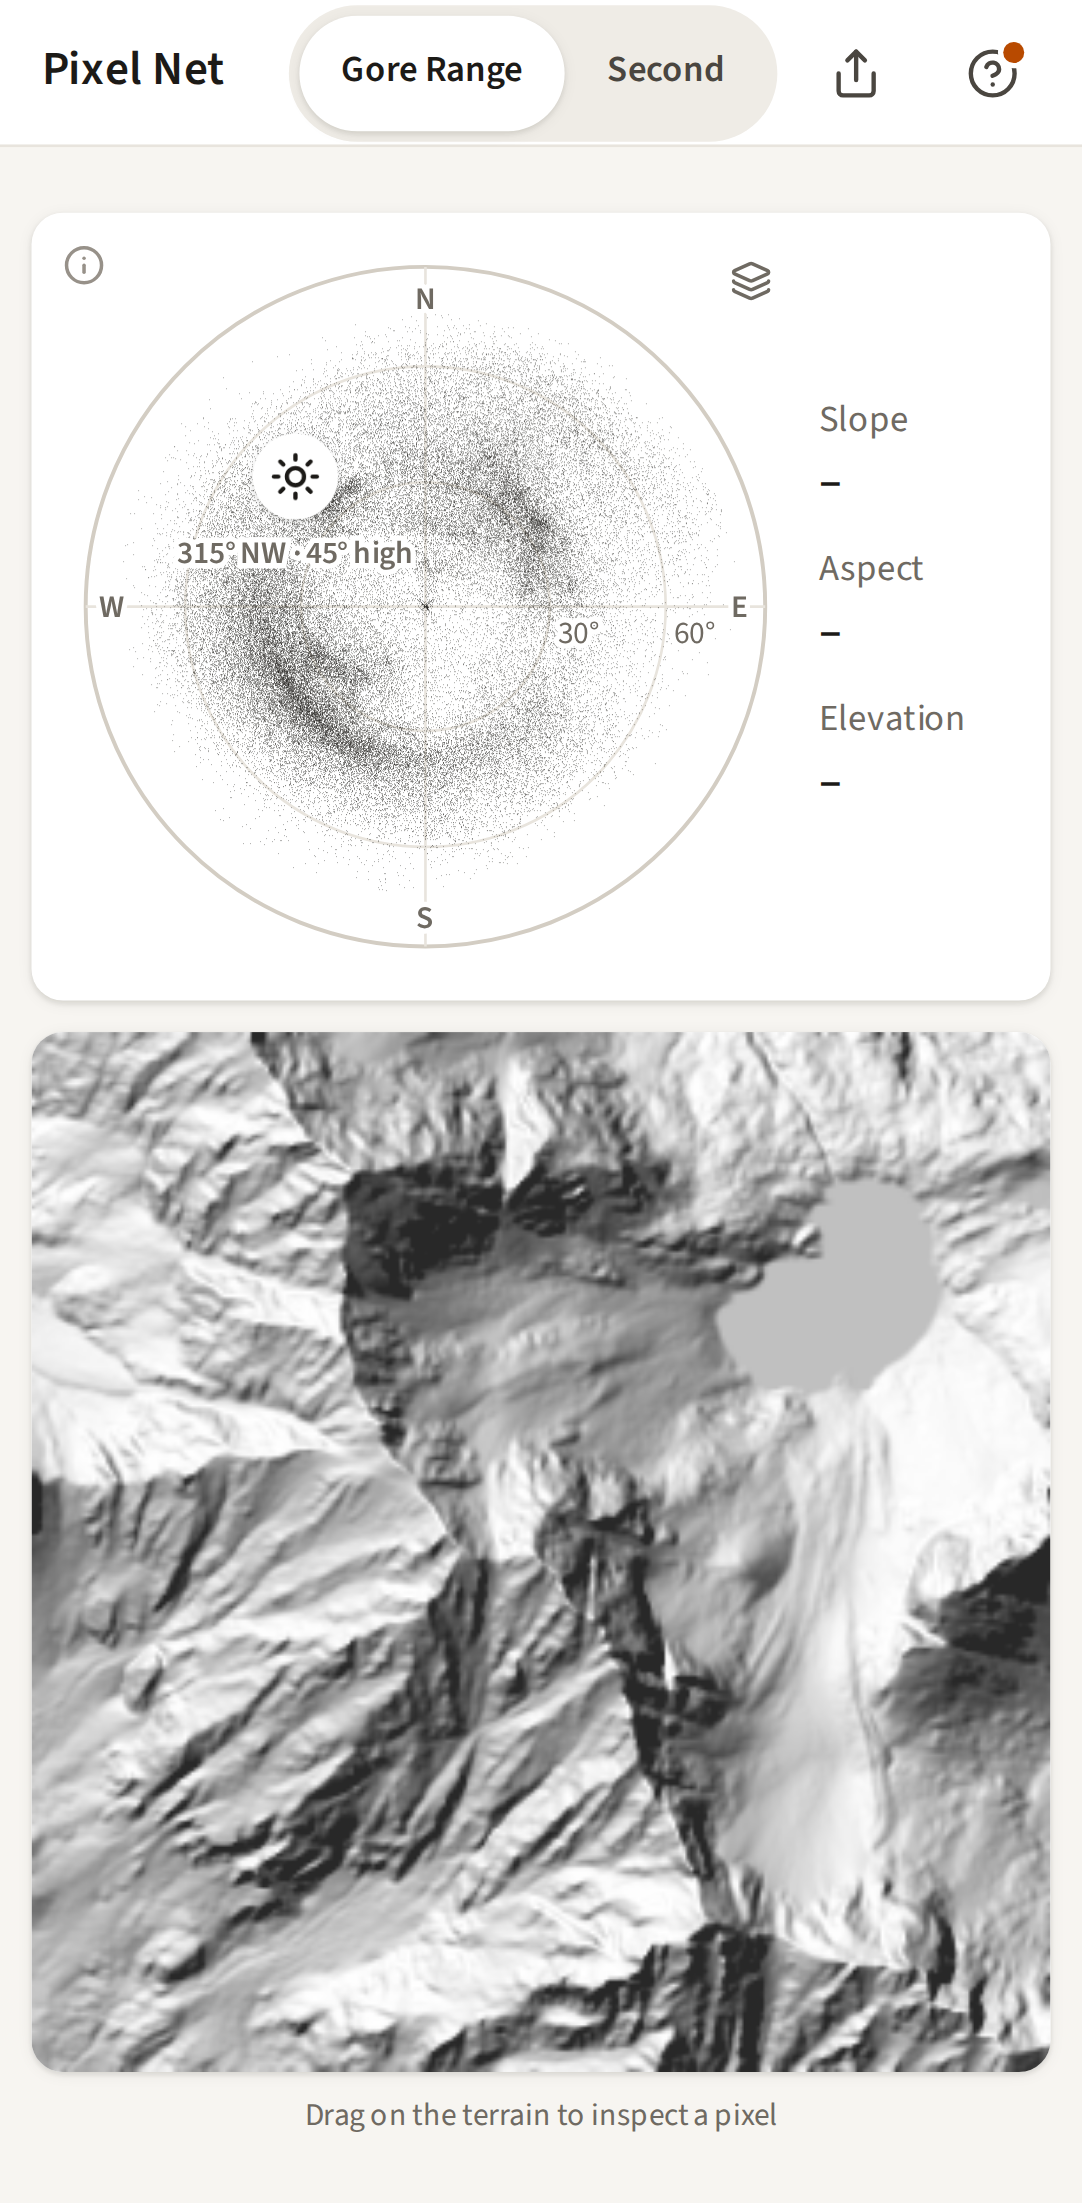
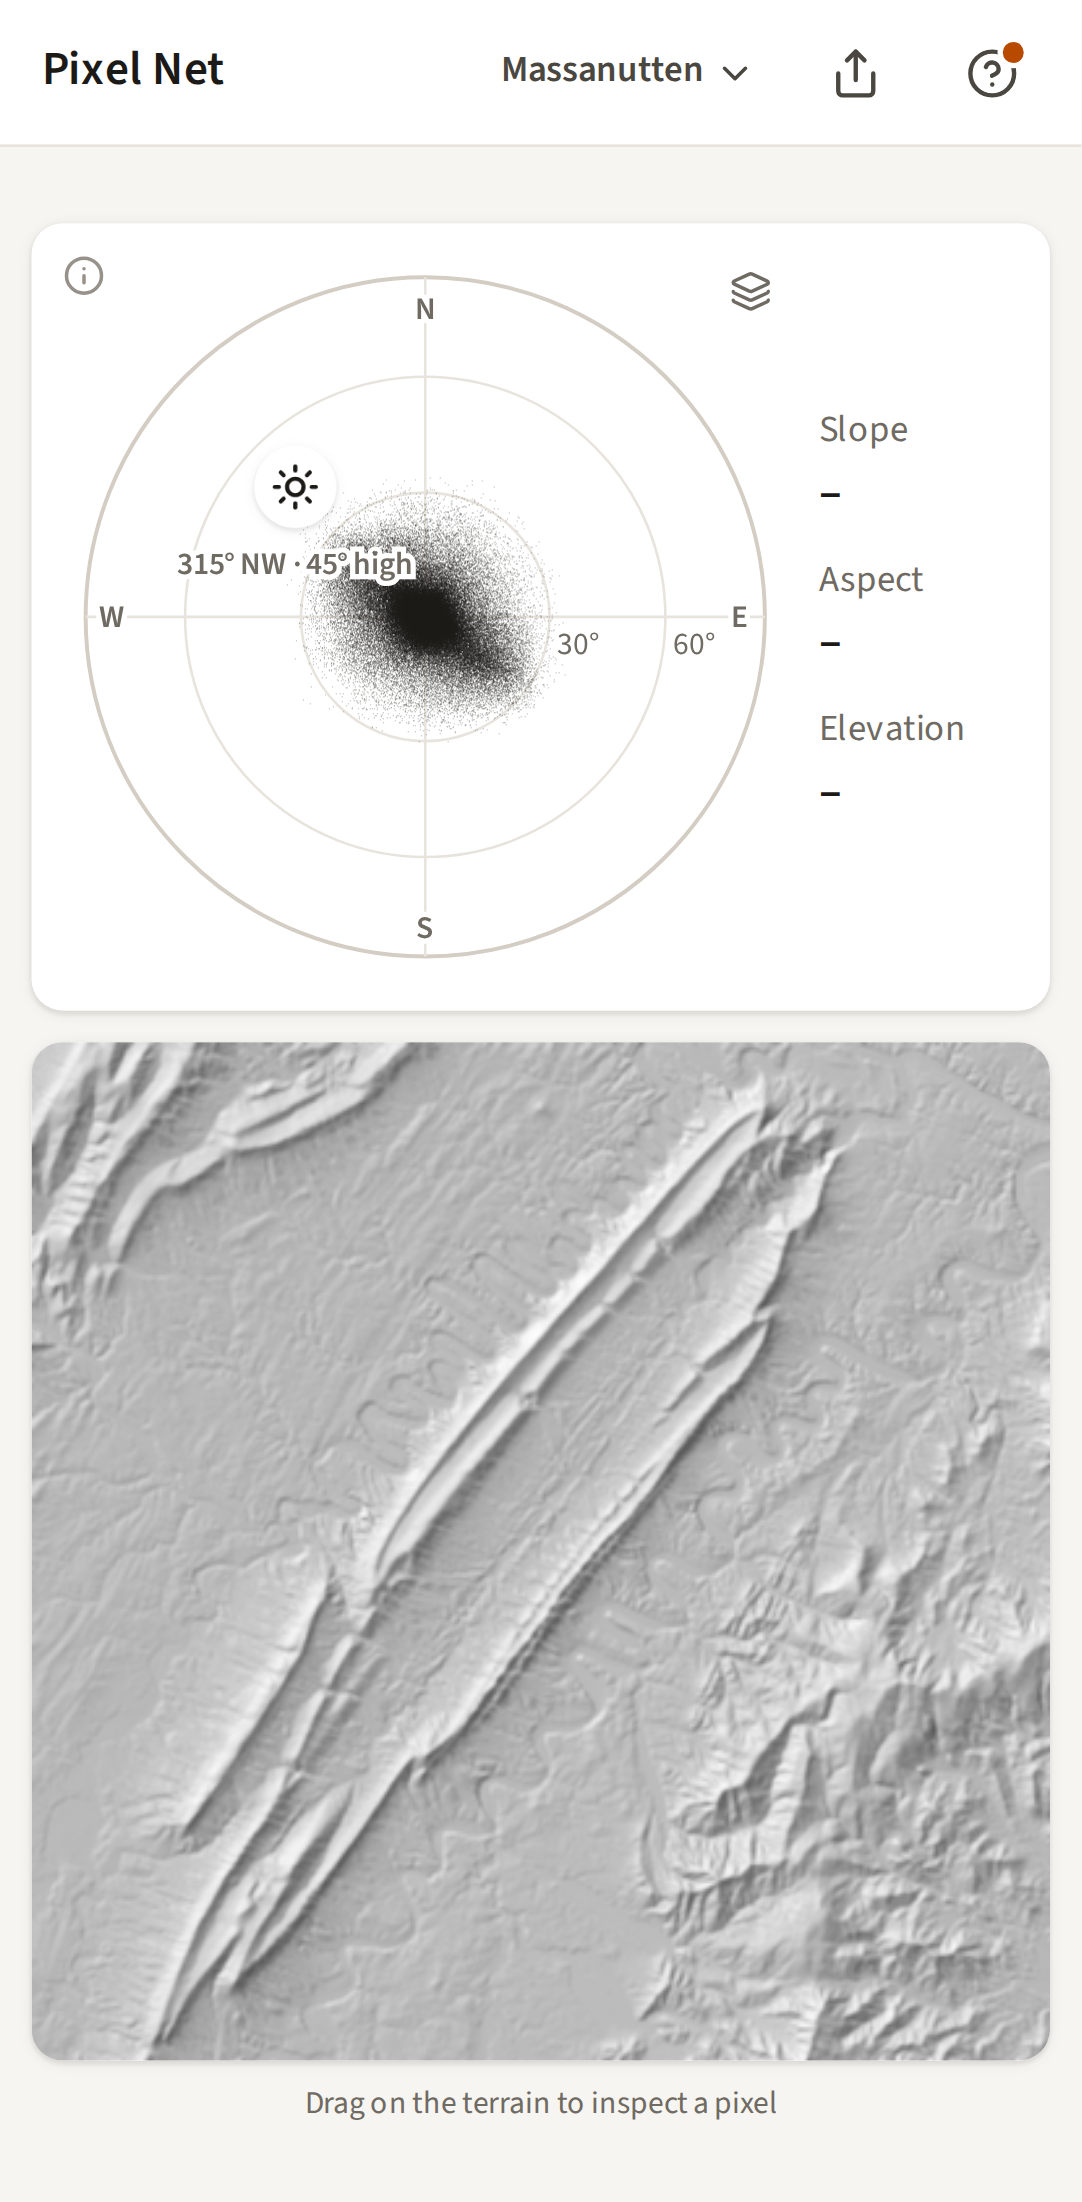
Record the second DEM and the new picker in the docs, the news and the screenshots
Claude-Session: https://claude.ai/code/session_01HWQbiQgX3NUxBSmC3SRion

diff --git a/PRODUCT.md b/PRODUCT.md
@@ -56,9 +56,10 @@ finger.
 - Phones held upright or sideways, and desktop browsers. The screen never
   scrolls; both cards scale to the viewport.
 - DEMs are bundled, not uploaded. Adding one is a GeoTIFF in `public/dems/`
-  plus an entry in `public/dems/dems.json`, usually after a `gdalwarp` step
-  (README, "Add a DEM"). The app ships with one: Gore Range, Colorado, 288 × 294
-  pixels at 5 m.
+  plus an entry in `public/dems/dems.json` and a thumbnail from
+  `npm run thumbs`, usually after a `gdalwarp` step (README, "Add a DEM"). The
+  app ships with two: Gore Range, Colorado, 288 × 294 pixels at 5 m, and
+  Massanutten Mountain, Virginia, 390 × 390 pixels at 100 m.
 - Deployed to GitHub Pages at https://lpeezydos-arch.github.io/Pixel-Net/ on
   every push to `main` (`.github/workflows/deploy.yml`); unit tests gate the
   deploy. Any static HTTPS host works with `BASE_PATH` set and
@@ -93,8 +94,12 @@ Confirmed functionality (spec §2–3):
   readout beside the net. The net's tooltip says how it is counted. Off by
   default; kept across a DEM switch
   (`docs/superpowers/specs/2026-10-03-density-layer-design.md`).
-- DEM picker: a segmented control for two to four DEMs, plain text for one.
-  More than four is unsupported.
+- DEM picker: with two to four DEMs, the DEM's name in the title bar is a
+  button with a small arrow. It opens a sheet of tiles, two across: a
+  hillshade thumbnail, the name, then the region and the pixel size. The
+  current DEM has a ring in the accent color. The sheet is the one Help uses
+  and never scrolls. One DEM is plain text. More than four is unsupported
+  (`docs/superpowers/specs/2026-10-04-second-dem-and-picker-design.md`).
 - States: loading (skeletons), ready, selected, flat, no-data, and a DEM error
   card with "Try again".
 - Offline: the shell, font, manifest and every `.tif` are precached (25 MB per
@@ -127,9 +132,6 @@ Technical constraints:
 - Slope and aspect by Horn's 3×3 method; the net is the equal-area (Schmidt)
   projection of the upward normal; no cast shadows. Aspect is the downhill
   direction.
-- Known limit: with two to four DEMs the picker and the app name truncate on
-  a phone narrower than about 400px; two fit at 412px and wider, and one fits
-  everywhere.
 
 Out of scope by decision (spec §2); do not reintroduce without a new decision:
 aspect rose, patch or area selection; user-supplied or fetched DEMs; zoom or
@@ -150,12 +152,12 @@ Terminology: DEM; hillshade; the net (Schmidt net); the cloud (every plotted
 pixel); the point (the highlighted pixel); the density layer (bands over the
 cloud where pixels crowd together); times an even spread (its unit); the key
 (the line that names its levels); slope, aspect, elevation; the sun (azimuth
-and height); loupe; readout; picker; caption.
+and height); loupe; readout; picker (the DEM's name in the title bar and the
+sheet it opens); tile; caption.
 
 Undecided:
 
 - The product's real name. "Pixel Net" is a working title.
-- The second sample DEM.
 
 ## Brand Commitments
 
@@ -180,9 +182,14 @@ Undecided:
   view that is out of scope, and a Kamb-contoured figure of the same data. The
   Kamb figure is not the reference for the density layer, which is counted
   another way.
-- `screenshots/`, twenty captures of the current build at phone and desktop
-  sizes, the last four with the density layer on (retaken and first tracked
-  2026-10-04).
+- `data/MASS/MASS_DEM_100m.tif`, the source of the second DEM;
+  `public/dems/massanutten.tif` is a copy of it. Beside it are the same four
+  reference figures as Gore's. `MASS_hillshade.png` is titled "Gore Range 05m"
+  by mistake; its data is Massanutten's.
+- `screenshots/`, twenty-three captures at phone and desktop sizes. Numbers 09
+  and 21–23 show the picker and were taken 2026-10-04 after it was built; the
+  rest were taken earlier that day and show the title bar with one DEM, before
+  its name became a button.
 - Automated tests in `src/**/*.test.ts` and `e2e/*.spec.ts`.
 - `docs/polish-pass.md`: twenty items with evidence, plus hand checks on a
   real phone that are still open (safe areas, drag feel, loupe near the top

diff --git a/README.md b/README.md
@@ -69,21 +69,34 @@ export LD_LIBRARY_PATH=~/.cache/pixel-net-libs/root/usr/lib/x86_64-linux-gnu
      "id": "short-id",
      "name": "Name in the picker",
      "place": "Place shown under the terrain",
+     "region": "Short place name on the picker's tile",
      "file": "your.tif",
      "width": 288,
-     "height": 294
+     "height": 294,
+     "cell": 5
    }
    ```
 
-   `width` and `height` are the DEM's pixel dimensions. They are optional, but
-   with them the screen does not shift when the DEM finishes loading.
+   `width` and `height` are the DEM's pixel dimensions and `cell` is its pixel
+   size in meters. With the dimensions the screen does not shift when the DEM
+   finishes loading; `region` and `cell` make the line under the DEM's name in
+   the picker. `npm test` fails if any of the three differs from the file.
+
+4. Make its thumbnail for the picker:
+
+   ```bash
+   npm run thumbs
+   ```
+
+   This writes `public/dems/short-id.png` for every DEM in the list. It needs
+   Playwright's Chromium, as the browser tests do.
 
 A DEM that does not meet the requirements shows an error card in the app
 rather than a wrong net.
 
-Limits: the picker shows the first four DEMs in the list. The app is built for
-DEMs up to about two million pixels; a much larger one will make dragging the
-sun feel slow.
+Limits: the picker shows the first four DEMs in the list, as tiles in a sheet
+that does not scroll. The app is built for DEMs up to about two million pixels;
+a much larger one will make dragging the sun feel slow.
 
 ## Rename the app
 

diff --git a/docs/superpowers/plans/2026-10-04-second-dem-and-picker.md b/docs/superpowers/plans/2026-10-04-second-dem-and-picker.md
@@ -16,7 +16,7 @@
 - Colors, sizes, radii, shadows and durations come from `src/styles/tokens.css`. Do not edit that file.
 - Touch targets are at least 44px on a touch screen (`@media (pointer: coarse)`, `--touch`).
 - The sheet never scrolls. At most four DEMs are shown (`MAX_DEMS` in `src/state/useDems.ts` stays 4).
-- Copy is plain, one sentence at a time. Exact strings: the dialog is named `DEM`; the button is named `DEM: <name>`; the news entry is `A second landscape, Massanutten Mountain in Virginia. Press the DEM's name to switch.`
+- Copy is plain, one sentence at a time. Exact strings: the dialog is named `DEM`; the button is named `DEM: <name>`; the news entry is `A second landscape, Massanutten Mountain. Press the DEM's name to switch.`
 - A tile's line is `<region> · <cell> m`, as in `Virginia · 100 m`. A part the entry does not give is left out.
 - A thumbnail is `public/dems/<id>.png`, shorter side 360px, at the default sun (azimuth 315°, height 45°).
 - Comments say why, in plain sentences, as the surrounding code does. No comment restates the code.
@@ -1164,7 +1164,7 @@ In `src/help/news.json`, add after the entry with `"id": 6` (with a comma after 
   {
     "id": 7,
     "date": "2026-10-04",
-    "text": "A second landscape, Massanutten Mountain in Virginia. Press the DEM's name to switch."
+    "text": "A second landscape, Massanutten Mountain. Press the DEM's name to switch."
   }
 ```
 

diff --git a/docs/superpowers/specs/2026-10-04-second-dem-and-picker-design.md b/docs/superpowers/specs/2026-10-04-second-dem-and-picker-design.md
@@ -1,7 +1,8 @@
 # A second DEM and a new picker — design
 
 Date: 2026-10-04
-Status: design approved in conversation 2026-10-04; this document awaits review
+Status: approved 2026-10-04. The implementation plan is
+`docs/superpowers/plans/2026-10-04-second-dem-and-picker.md`
 
 This extends `2026-10-01-pixel-net-design.md`, called "the first spec" below,
 and follows `2026-10-03-help-and-news-design.md`. Section numbers here are
@@ -250,9 +251,8 @@ live site.
 - `PRODUCT.md`: the picker, the DEMs the app ships with, the evidence in
   `data/MASS/`, and the list of what is undecided. The known limit on the
   title bar is removed.
-- `src/help/news.json`: one entry, "A second landscape, Massanutten Mountain
-  in Virginia. Press the DEM's name to switch." `CHANGELOG.md` is written out
-  from it.
+- `src/help/news.json`: one entry, "A second landscape, Massanutten Mountain.
+  Press the DEM's name to switch." `CHANGELOG.md` is written out from it.
 - `.gitignore`: `data/*.zip` in place of `data/GORE.zip`.
 - `screenshots/`: `09-phone-two-dems.png` is retaken, and captures of the open
   sheet are added at phone, sideways and desktop sizes.

diff --git a/CHANGELOG.md b/CHANGELOG.md
@@ -6,6 +6,7 @@ and run the command; do not edit this file.
 
 ## 4 Oct 2026
 
+- A second landscape, Massanutten Mountain. Press the DEM's name to switch.
 - Slopes facing away from the sun keep their shape instead of turning one flat gray.
 
 ## 3 Oct 2026
